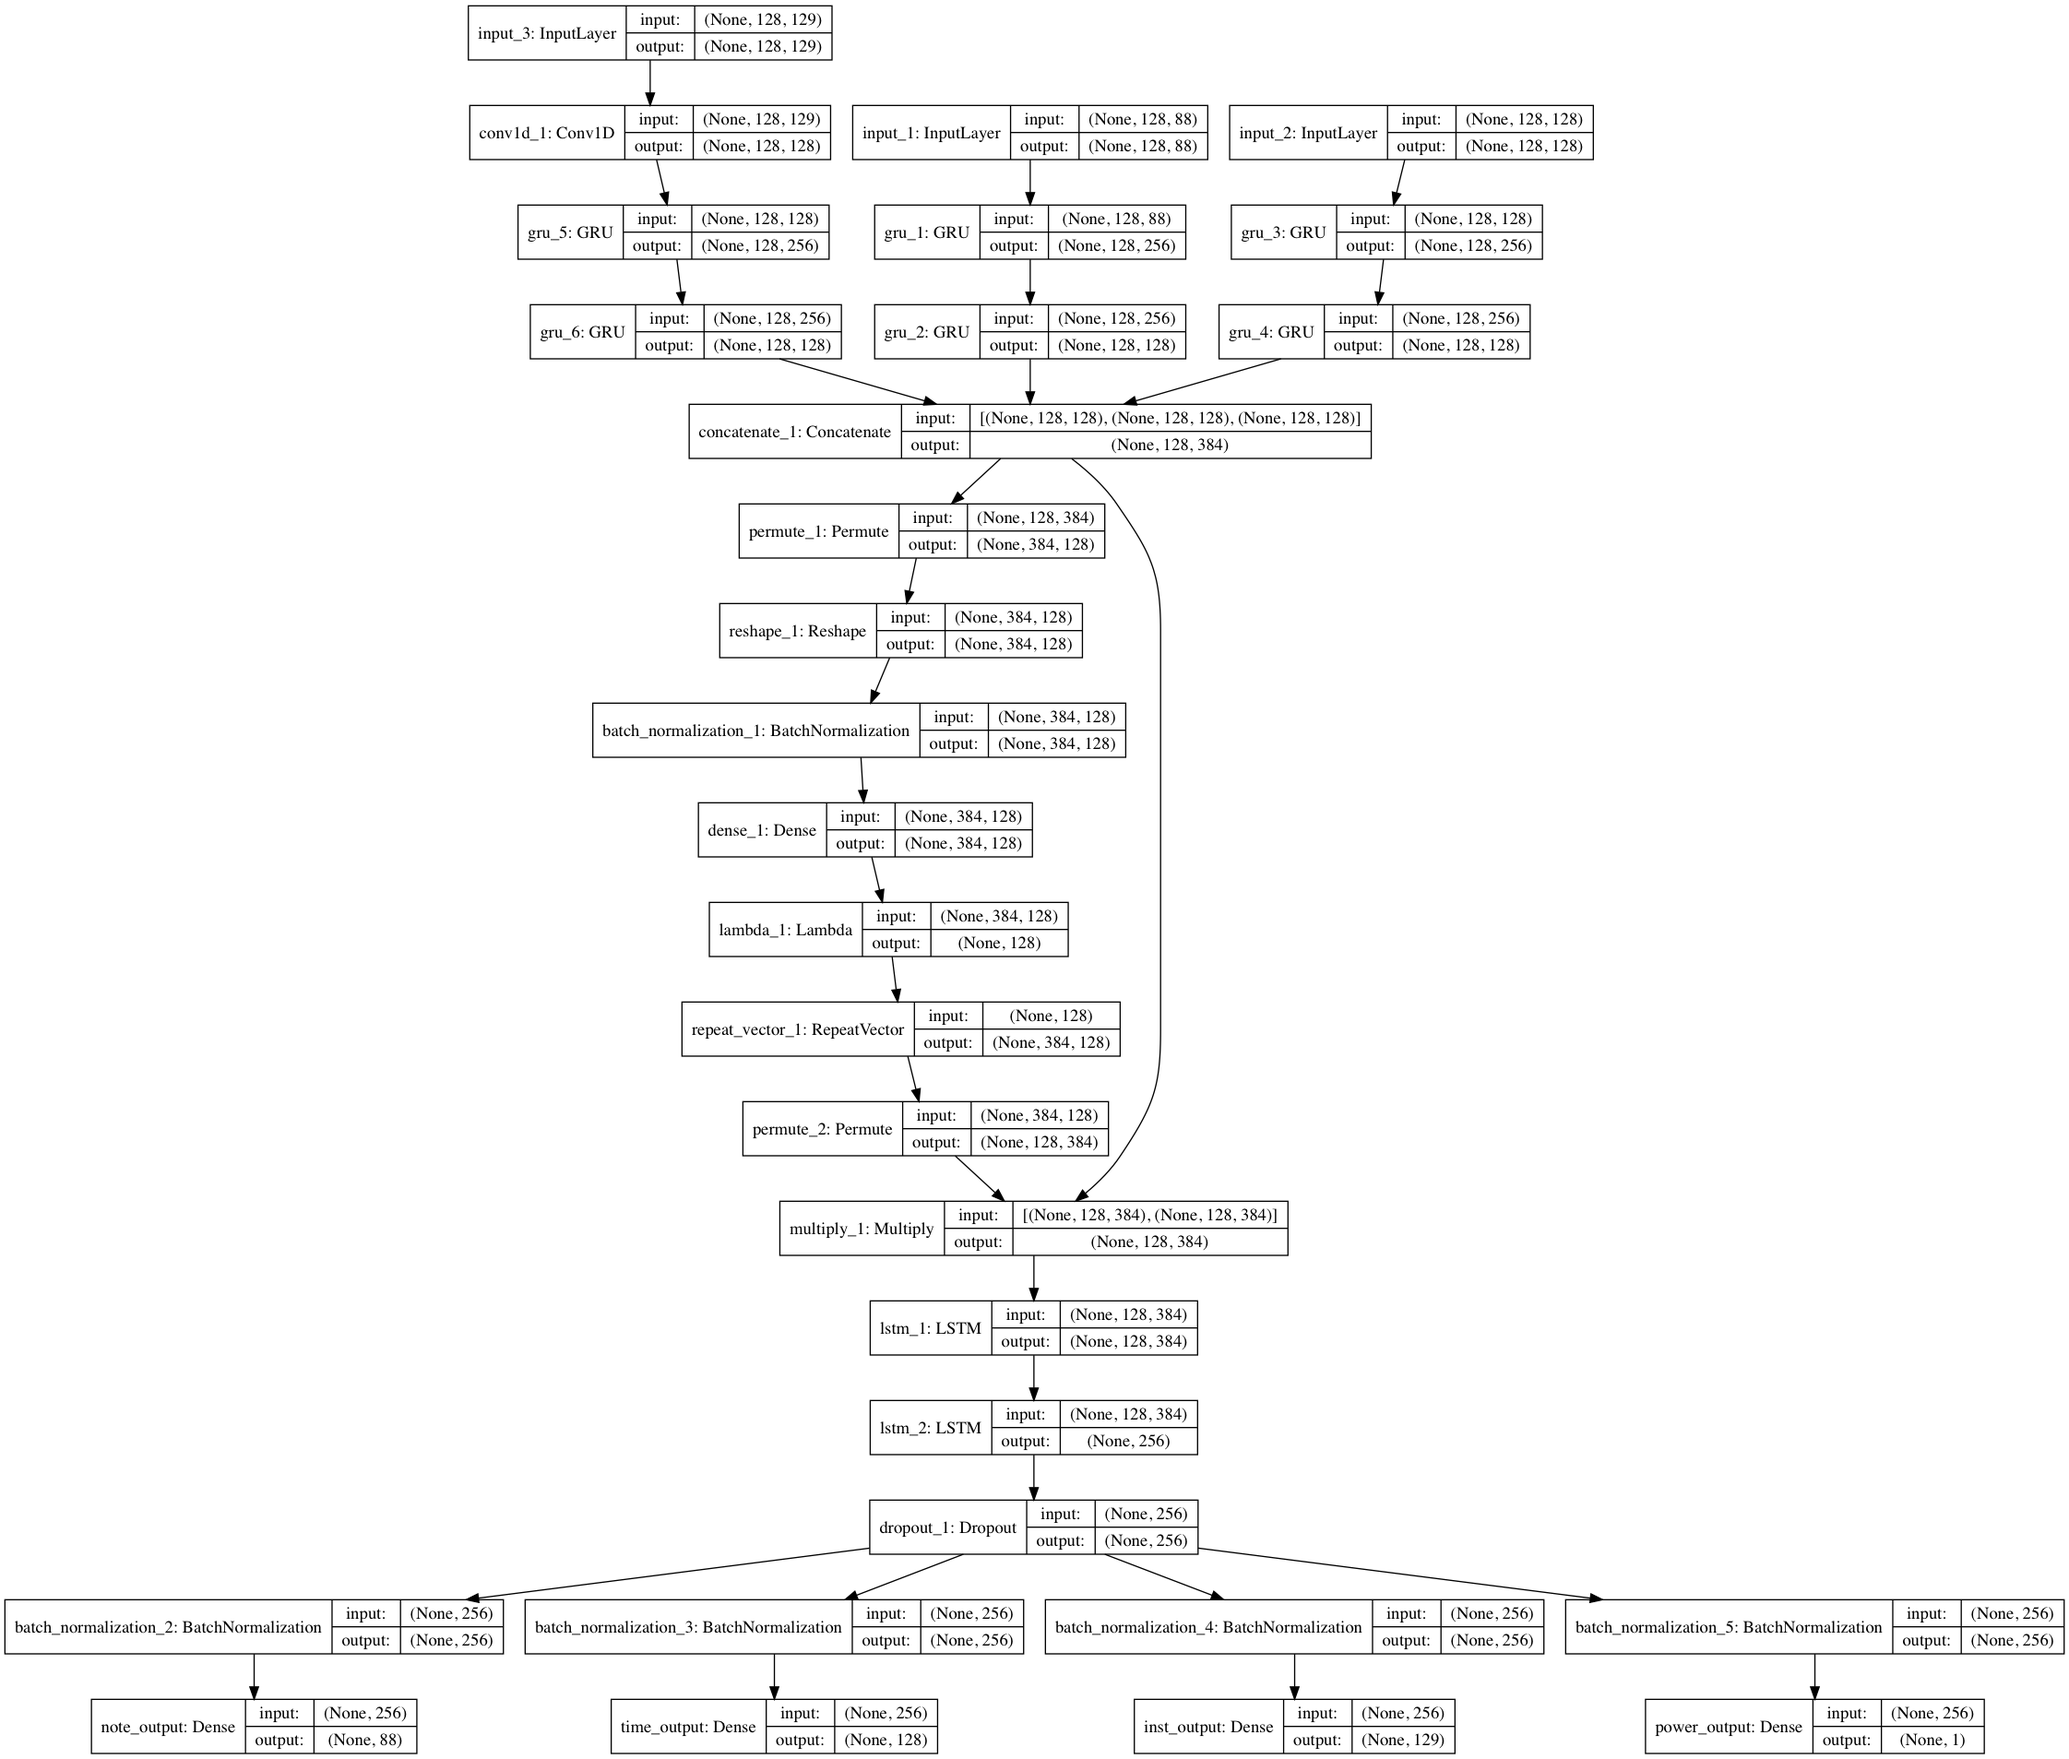
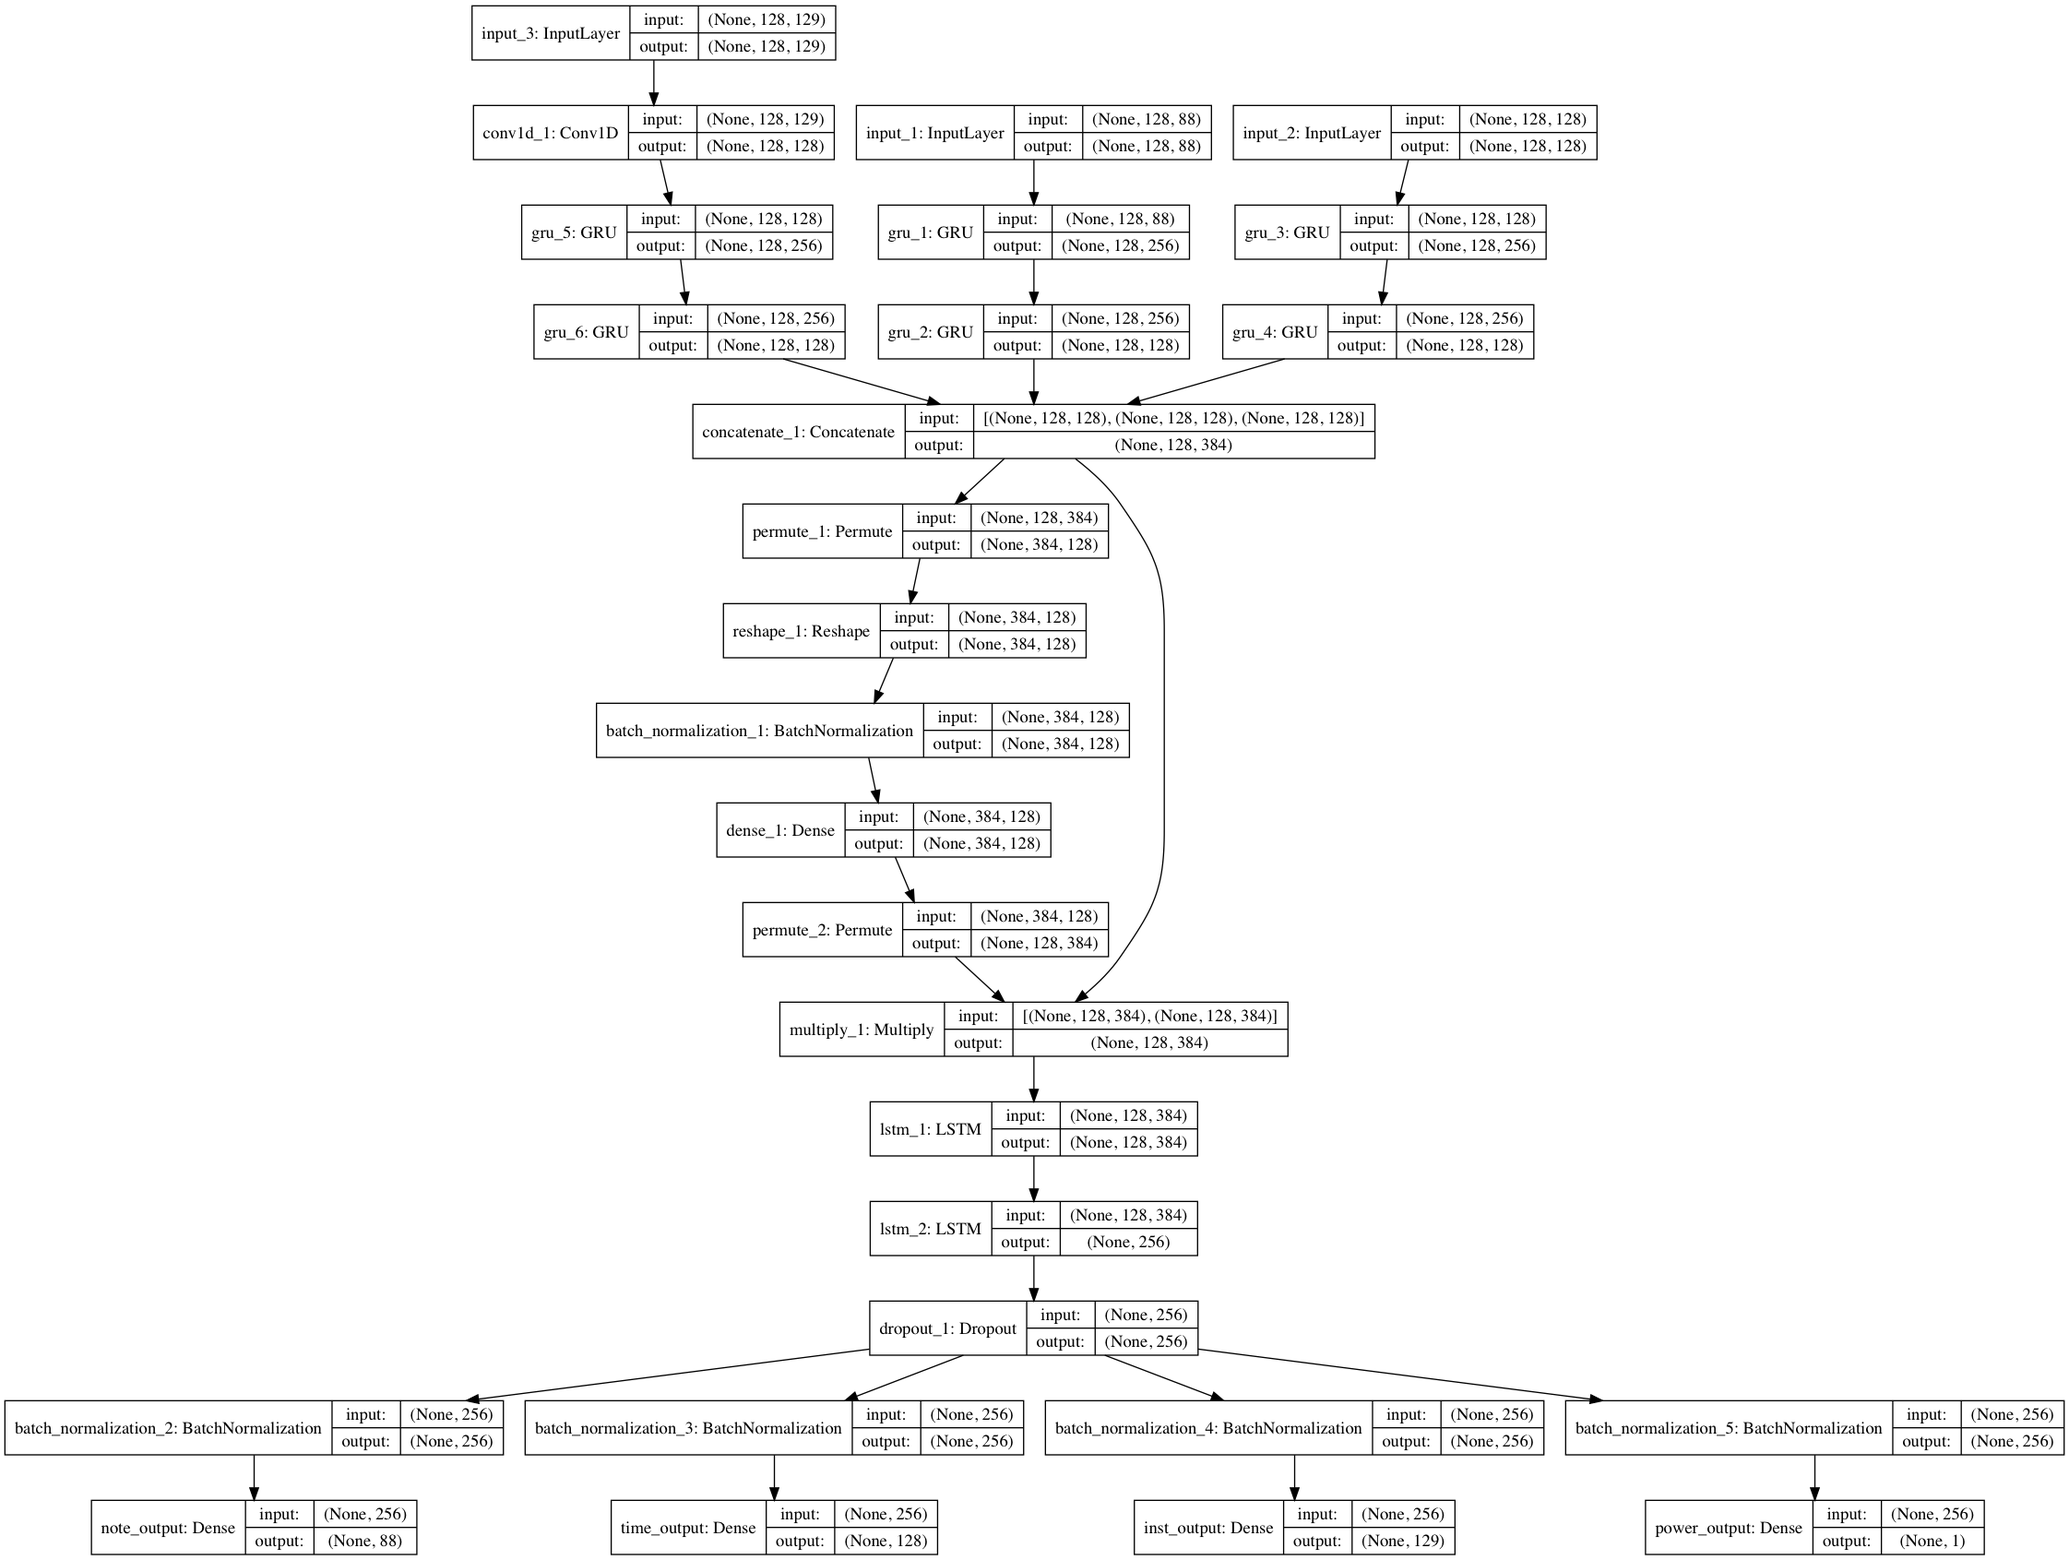
foo

Changed region(s): [[0.0, 0.0, 0.9987, 1.0]]

diff --git a/multiple_instruments/attention_block.py b/multiple_instruments/attention_block.py
@@ -10,7 +10,7 @@ The idea of SoftAttentionBlock are from:
 https://github.com/philipperemy/keras-attention-mechanism
 '''
 
-def SoftAttentionBlock(inputs, input_ts=None, input_dim=None, SINGLE_ATTENTION_VECTOR=True):
+def SoftAttentionBlock(inputs, input_ts=None, input_dim=None):
     ## input: (batch_size, time_step, features)
     if input_ts is None:
         input_ts = int(inputs.shape[1])
@@ -20,9 +20,6 @@ def SoftAttentionBlock(inputs, input_ts=None, input_dim=None, SINGLE_ATTENTION_V
     x = Reshape((input_dim, input_ts))(x)
     x = BatchNormalization()(x)
     x = Dense(input_ts, activation='softmax')(x)
-    if SINGLE_ATTENTION_VECTOR:
-        x = Lambda(lambda x: K.mean(x, axis=1))(x)
-        x = RepeatVector(input_dim)(x)
     x = Permute((2,1))(x)
     attention = Multiply()([x, inputs])
     return attention

diff --git a/multiple_instruments/load.py b/multiple_instruments/load.py
@@ -58,7 +58,7 @@ with tf.device('/gpu:2'):
 
 with tf.device('/gpu:3'):
     codec = concatenate([noteEncode, deltaEncode, instEncode], axis=-1) ## return last state
-    codec = SoftAttentionBlock(codec, segLen, 384, True)
+    codec = SoftAttentionBlock(codec, segLen, 384)
     codec = LSTM(384, return_sequences=True, dropout=drop_rate, activation='softsign')(codec)
     codec = LSTM(256, return_sequences=False, dropout=drop_rate, activation='softsign')(codec)
     codec = Dropout(drop_rate)(codec)
@@ -78,3 +78,4 @@ aiComposer = Model([noteInput, deltaInput, instInput], [pred_notes, pred_delta, 
 if ( os.path.isfile('./top_weight.h5')):  ## fine-tuning
     aiComposer.load_weights('./top_weight.h5')
 aiComposer.save('./multi.h5')
+

diff --git a/multiple_instruments/train_dir.py b/multiple_instruments/train_dir.py
@@ -241,7 +241,7 @@ def main():
 
     with tf.device('/gpu:3'):
         codec = concatenate([noteEncode, deltaEncode, instEncode], axis=-1) ## return last state
-        codec = SoftAttentionBlock(codec, segLen, 384, True)
+        codec = SoftAttentionBlock(codec, segLen, 384)
         codec = LSTM(384, return_sequences=True, dropout=drop_rate, activation='softsign')(codec)
         codec = LSTM(256, return_sequences=False, dropout=drop_rate, activation='softsign')(codec)
         codec = Dropout(drop_rate)(codec)

diff --git a/multiple_instruments/summary.py b/multiple_instruments/summary.py
@@ -58,7 +58,7 @@ with tf.device('/gpu:2'):
 
 with tf.device('/gpu:3'):
     codec = concatenate([noteEncode, deltaEncode, instEncode], axis=-1) ## return last state
-    codec = SoftAttentionBlock(codec, segLen, 384, True)
+    codec = SoftAttentionBlock(codec, segLen, 384)
     codec = LSTM(384, return_sequences=True, dropout=drop_rate, activation='softsign')(codec)
     codec = LSTM(256, return_sequences=False, dropout=drop_rate, activation='softsign')(codec)
     codec = Dropout(drop_rate)(codec)
